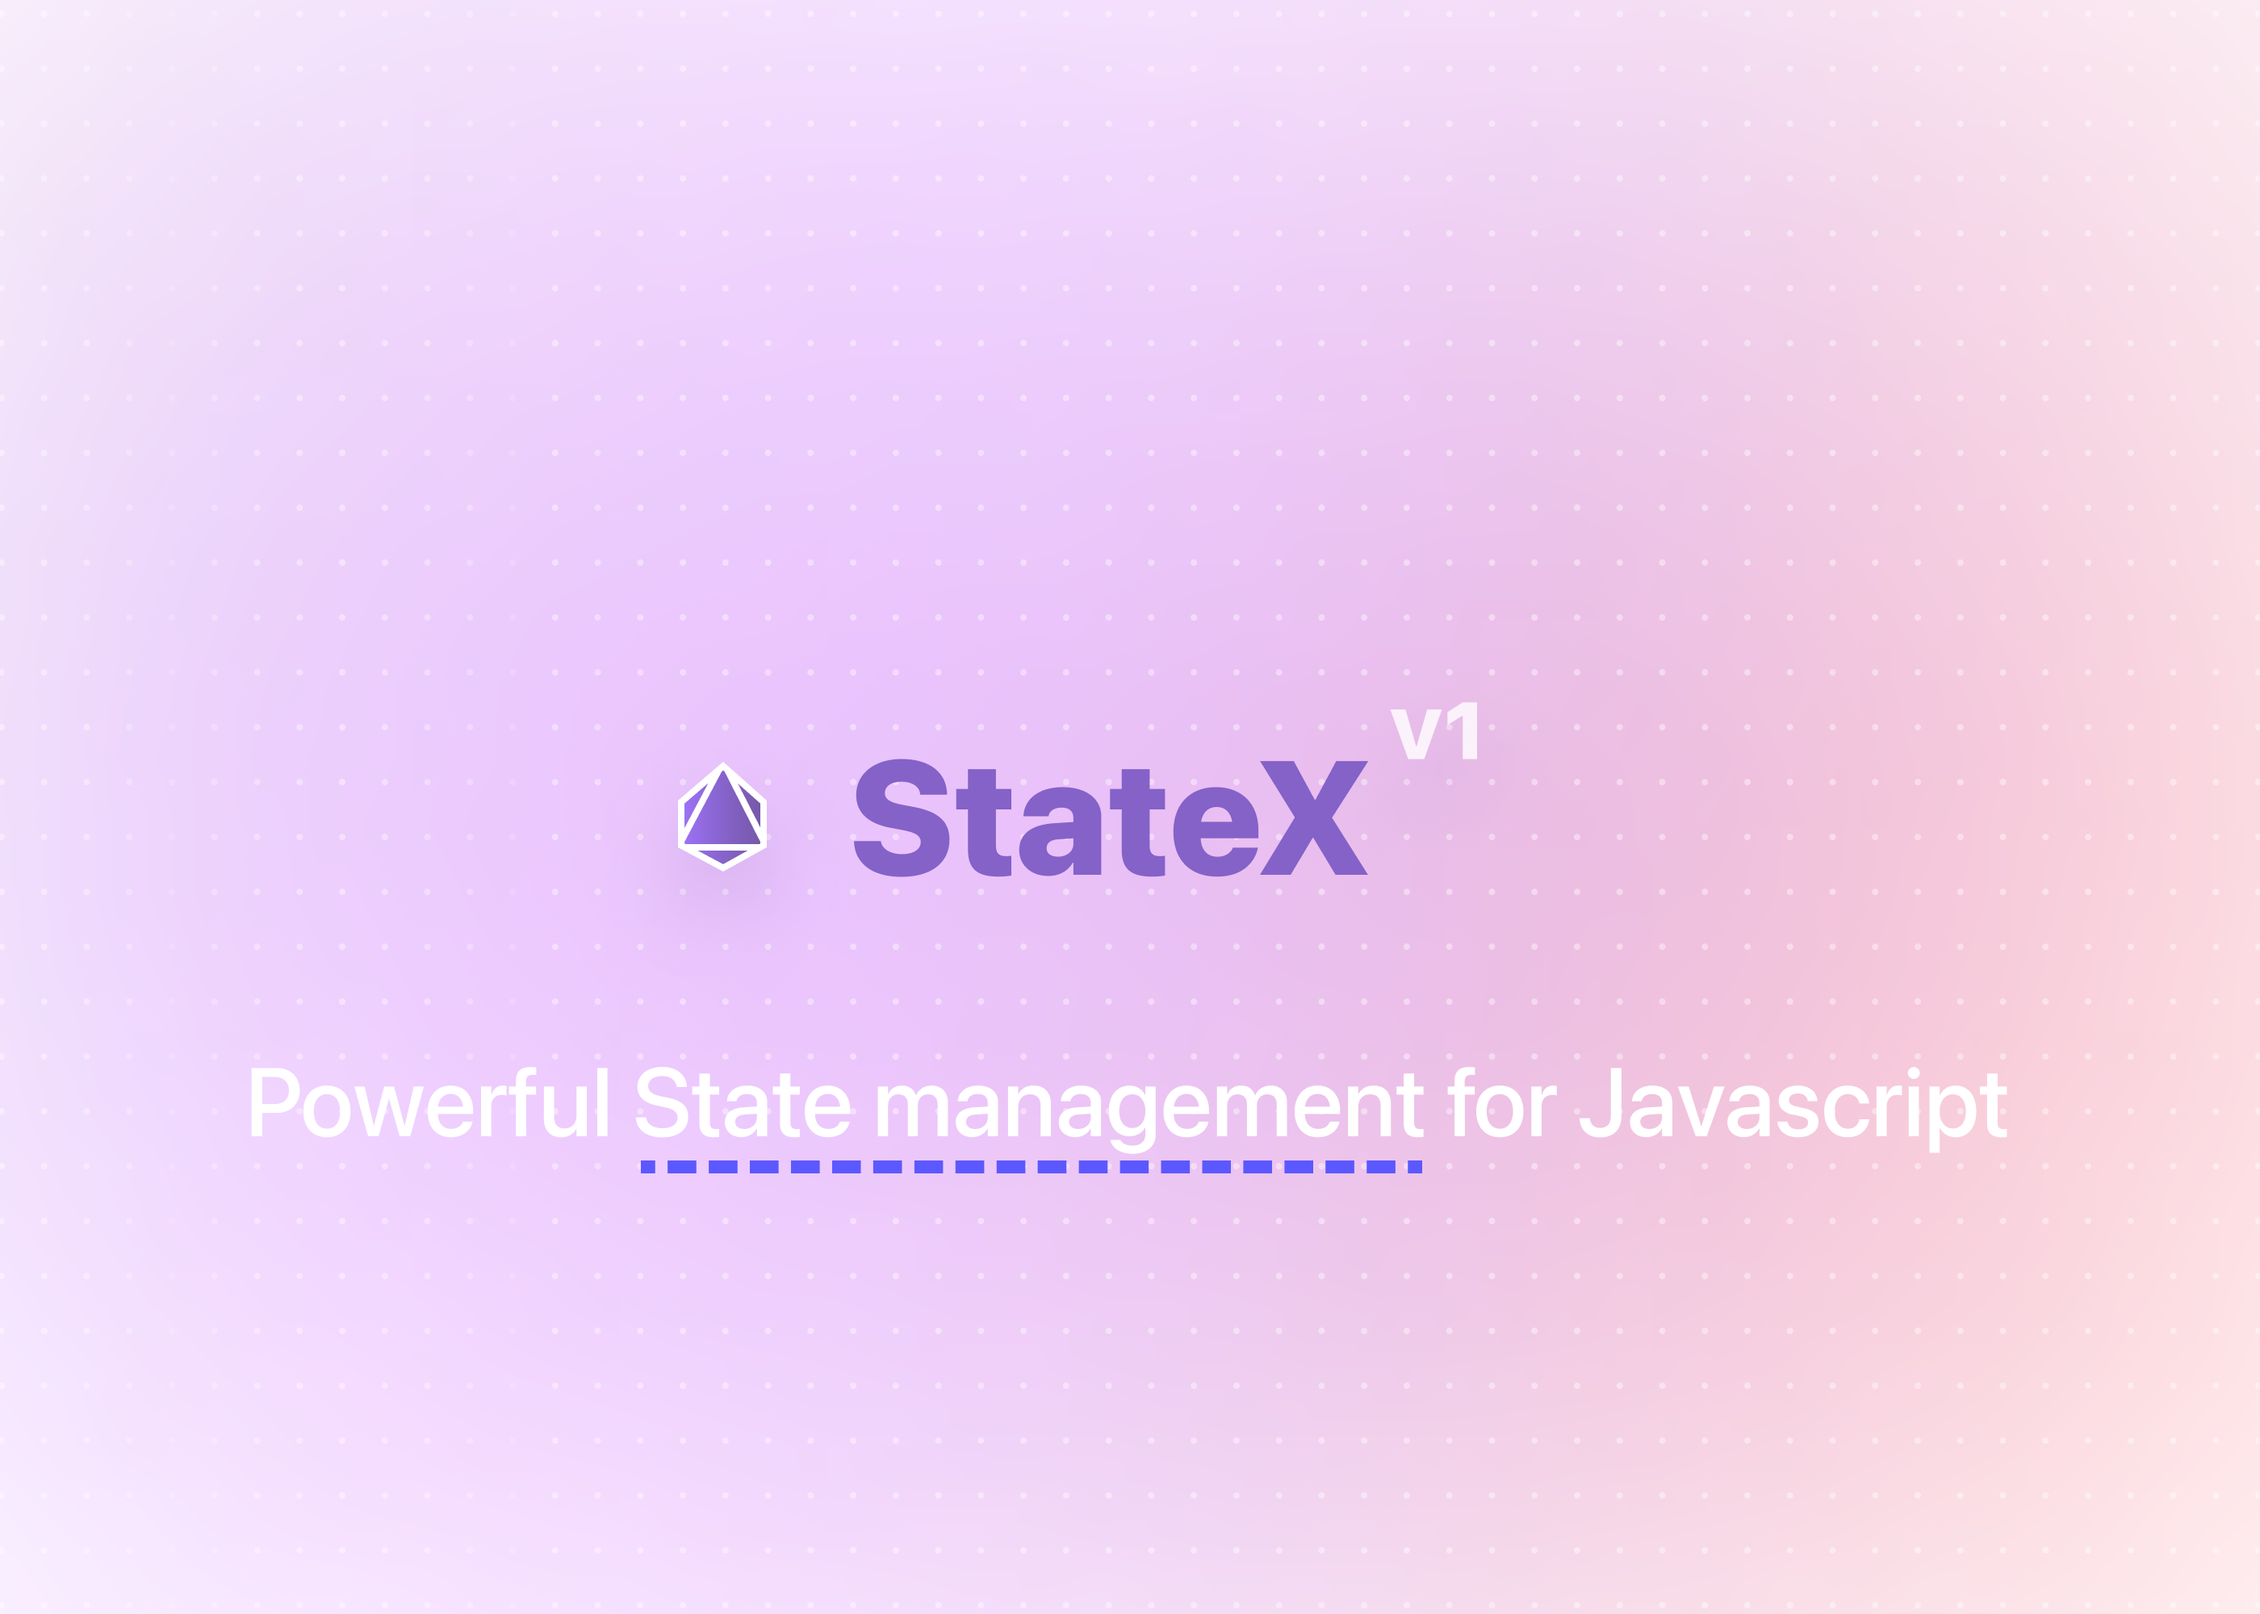
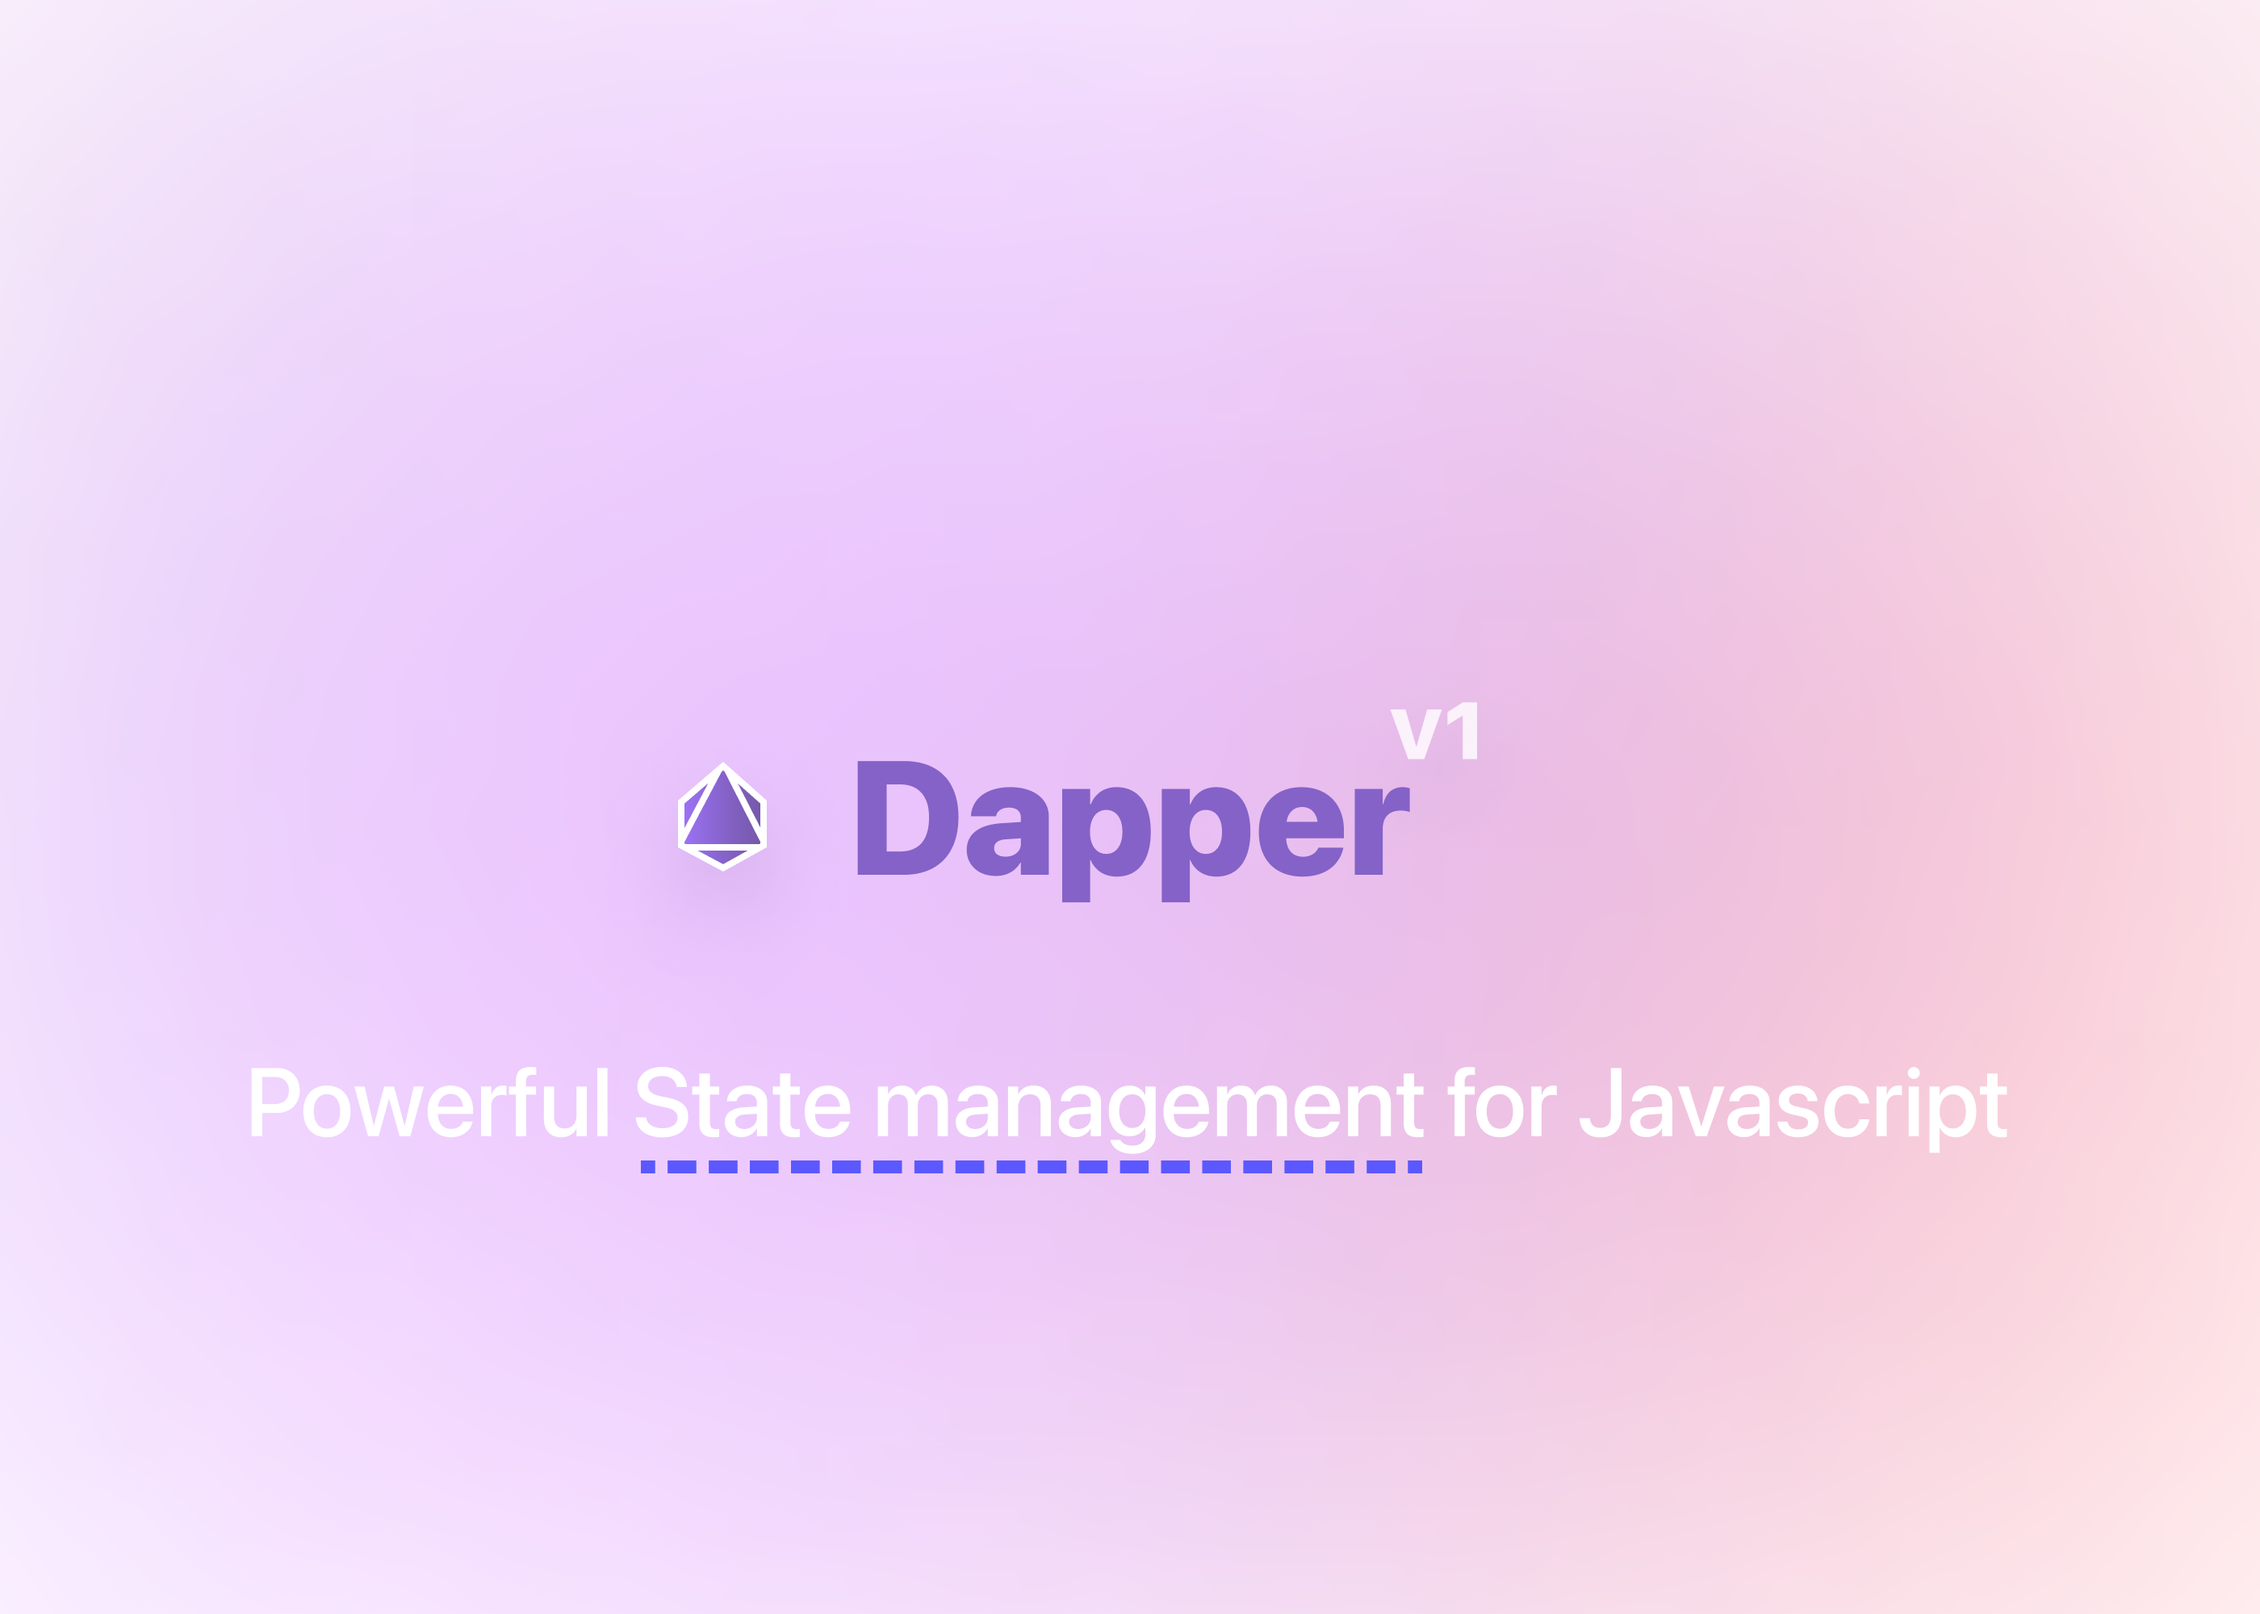
🤠;Update project name within files and docs (#11)
* Update project name within files and docs

* Update banner

Changed region(s): [[0.3729, 0.465, 0.6214, 0.558]]

diff --git a/benchmark/benchmark.ts b/benchmark/benchmark.ts
@@ -2,7 +2,7 @@ import { baseline, bench, run } from 'mitata';
 import { createStore } from 'redux';
 import { createState } from '../lib';
 
-baseline('StateX', () => {
+baseline('dapper', () => {
 	const counter = createState(0);
 
 	counter.onChange = newValue => {

diff --git a/README.md b/README.md
@@ -1,8 +1,8 @@
-<img src="https://github.com/TruelinesHQ/statex/blob/main/resources/banner.png" alt="Banner" />
+<img src="https://github.com/TruelinesHQ/dapper/blob/main/resources/banner.png" alt="Banner" />
 
 <br />
 
-**StateX** is a blazing fast and lightweight framework for managing state in a Javascript app.
+**Dapper** is a blazing fast and lightweight framework for managing state in a Javascript app.
 
 ## Features
 
@@ -38,7 +38,7 @@ name.onChange = newValue => {
 **Extended State**:
 
 ```ts
-import { State, createState } from 'statex';
+import { State, createState } from 'dapper';
 
 class CredentialsStore extends State<string> {
 	verifyValue(value: string) {
@@ -57,14 +57,16 @@ class CredentialsStore extends State<string> {
 }
 
 // you can call the actions inside your state
-const [name, setName, nameInstance] = createStateWith(CredentialsStore('some-name'));
+const [name, setName, nameInstance] = createStateWith(
+	CredentialsStore('some-name')
+);
 
 nameInstance.get();
 ```
 
 #### `createState()`
 
-Creates a new `State` object and returns an instance of it. This function is just a simplified form of the `State` class. If you wanna read about the usage, you might need to checkout the [State](https://github.com/TruelinesHQ/statex#state) API.
+Creates a new `State` object and returns an instance of it. This function is just a simplified form of the `State` class. If you wanna read about the usage, you might need to checkout the [State](https://github.com/TruelinesHQ/dapper#state) API.
 
 Usage:
 
@@ -99,7 +101,7 @@ const state = createStateWith(
 ### Example
 
 ```ts
-import { createState } from 'statex';
+import { createState } from 'dapper';
 
 /**
  * Creates a new state object and returns an array of three elements with
@@ -154,4 +156,4 @@ username.set('hello-world');
 
 ## License
 
-**StateX** is licensed under `MIT` and the copyright is owned by Haneen Mahdin.
+**dapper** is licensed under `MIT` and the copyright is owned by Haneen Mahdin.

diff --git a/CHANGELOG.md b/CHANGELOG.md
@@ -2,17 +2,17 @@
 
 ## What's Changed
 
-- [🥸🤠🥳]: Add new APIs by @haneenmahd in https://github.com/TruelinesHQ/statex/pull/1
-- 🧐 Optimise codebase by @haneenmahd in https://github.com/TruelinesHQ/statex/pull/2
-- 🥸 : Optimise updating state by @haneenmahd in https://github.com/TruelinesHQ/statex/pull/3
-- 🥸: Doesn't return a getter function (#4) by @haneenmahd in https://github.com/TruelinesHQ/statex/pull/5
-- Type safety by @haneenmahd in https://github.com/TruelinesHQ/statex/pull/6
-- Add support for initial effect by @haneenmahd in https://github.com/TruelinesHQ/statex/pull/7
-- Extensibility by @haneenmahd in https://github.com/TruelinesHQ/statex/pull/8
-- 😎: Dump react-like state management by @haneenmahd in https://github.com/TruelinesHQ/statex/pull/9
+- [🥸🤠🥳]: Add new APIs by @haneenmahd in https://github.com/TruelinesHQ/dapper/pull/1
+- 🧐 Optimise codebase by @haneenmahd in https://github.com/TruelinesHQ/dapper/pull/2
+- 🥸 : Optimise updating state by @haneenmahd in https://github.com/TruelinesHQ/dapper/pull/3
+- 🥸: Doesn't return a getter function (#4) by @haneenmahd in https://github.com/TruelinesHQ/dapper/pull/5
+- Type safety by @haneenmahd in https://github.com/TruelinesHQ/dapper/pull/6
+- Add support for initial effect by @haneenmahd in https://github.com/TruelinesHQ/dapper/pull/7
+- Extensibility by @haneenmahd in https://github.com/TruelinesHQ/dapper/pull/8
+- 😎: Dump react-like state management by @haneenmahd in https://github.com/TruelinesHQ/dapper/pull/9
 
 ## New Contributors
 
-- @haneenmahd made their first contribution in https://github.com/TruelinesHQ/statex/pull/1
+- @haneenmahd made their first contribution in https://github.com/TruelinesHQ/dapper/pull/1
 
-**Full Changelog**: https://github.com/TruelinesHQ/statex/commits/1.0.0-beta.0
+**Full Changelog**: https://github.com/TruelinesHQ/dapper/commits/1.0.0-beta.0
